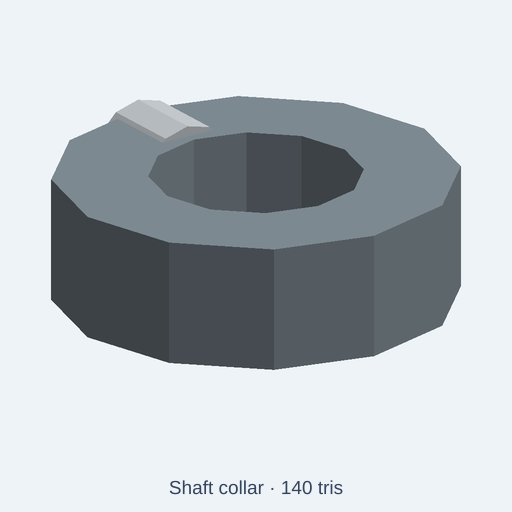
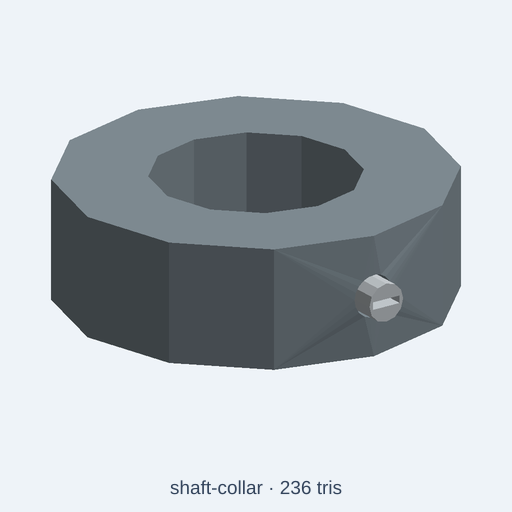
fix(catalog): drill shaft collar set-screw passage and model screw

Changed region(s): [[0.3125, 0.9375, 0.6875, 0.9688], [0.2188, 0.1875, 0.4062, 0.2812], [0.6875, 0.5312, 0.8125, 0.625]]

diff --git a/tests/integration/catalog/shaftCollarFidelity.test.ts b/tests/integration/catalog/shaftCollarFidelity.test.ts
@@ -1,0 +1,85 @@
+// SPDX-License-Identifier: MIT
+// The CC0 prop is not a rated collar, but its claimed set screw must have
+// a drilled radial passage. Validate exported geometry, not just labels.
+import { beforeAll, describe, expect, it } from 'vitest';
+import { readFileSync } from 'node:fs';
+import { resolve } from 'node:path';
+import { NodeIO } from '@gltf-transform/core';
+import { initOcct } from '../../../src/kernel/backends/occt/occtBackend';
+import { buildCatalogAssetWithGlb } from '../../../src/agent/catalog/buildCatalog';
+import { runAndExport } from '../../../src/agent/script-runtime/export';
+
+type V = [number, number, number];
+type Tri = [V,V,V];
+const root = resolve(import.meta.dirname, '../../..');
+const sourcePath='catalog/kits/standard-components/shaft-collar.kcad.ts';
+const source=readFileSync(resolve(root,sourcePath),'utf8');
+const sub=(a:V,b:V):V=>[a[0]-b[0],a[1]-b[1],a[2]-b[2]];
+const cross=(a:V,b:V):V=>[a[1]*b[2]-a[2]*b[1],a[2]*b[0]-a[0]*b[2],a[0]*b[1]-a[1]*b[0]];
+const dot=(a:V,b:V)=>a[0]*b[0]+a[1]*b[1]+a[2]*b[2];
+function rayHit(tris:Tri[],p:V,d:V):boolean {
+  return tris.some(([a,b,c])=>{
+    const e1=sub(b,a),e2=sub(c,a),h=cross(d,e2),det=dot(e1,h);
+    if(Math.abs(det)<1e-9)return false;
+    const f=1/det,s=sub(p,a),u=f*dot(s,h),q=cross(s,e1),v=f*dot(d,q),t=f*dot(e2,q);
+    return u>=-1e-7&&v>=-1e-7&&u+v<=1+1e-7&&t>1e-6&&t<100;
+  });
+}
+async function meshes(bytes:Uint8Array):Promise<Map<string,Tri[]>> {
+  const doc=await new NodeIO().readBinary(bytes),out=new Map<string,Tri[]>();
+  for(const node of doc.getRoot().listNodes()) {
+    const mesh=node.getMesh();if(!mesh)continue;
+    const m=node.getWorldMatrix(),tris:Tri[]=[];
+    for(const primitive of mesh.listPrimitives()) {
+      const pos=primitive.getAttribute('POSITION')!,idx=primitive.getIndices(),count=idx?idx.getCount():pos.getCount();
+      for(let i=0;i<count;i+=3)tris.push([0,1,2].map(j=>{
+        const v=pos.getElement(idx?idx.getScalar(i+j):i+j,[]);
+        return [0,1,2].map(k=>1000*(m[k]!*v[0]!+m[k+4]!*v[1]!+m[k+8]!*v[2]!+m[k+12]!)) as V;
+      }) as Tri);
+    }
+    out.set(node.getName(),tris);
+  }
+  return out;
+}
+function assertPassage(parts:Map<string,Tri[]>,scale:number):void {
+  expect([...parts.keys()].sort()).toEqual(['collar-ring','radial-set-screw']);
+  const ring=parts.get('collar-ring')!,screw=parts.get('radial-set-screw')!;
+  expect(ring.length).toBeGreaterThan(0);expect(screw.length).toBeGreaterThan(0);
+  const center:[number,number,number]=[0,6*scale,0];
+  // Source -Y becomes one of the two GLB horizontal depth directions. The
+  // ring must be open on exactly one side, while the other side stays solid.
+  const dirs:V[]=[[0,0,1],[0,0,-1]];
+  expect(dirs.filter(d=>!rayHit(ring,center,d))).toHaveLength(1);
+  const opening=dirs.find(d=>!rayHit(ring,center,d))!;
+  expect(rayHit(screw,center,opening),'set screw occupies the radial bore').toBe(true);
+  expect(rayHit(ring,[5*scale,6*scale,0],opening),'surrounding wall survives drilling').toBe(true);
+  expect(rayHit(ring,center,[1,0,0]),'annular wall survives outside the radial bore').toBe(true);
+}
+async function variant(code:string):Promise<Map<string,Tri[]>>{
+  const e=await runAndExport({code,fileName:'shaft-collar.kcad.ts',scriptDir:resolve(root,'catalog/kits/standard-components'),format:'glb',options:{format:'glb',style:'lowpoly',lowpoly:{maxTriangles:300}}});
+  expect(e.diagnostics.filter(d=>d.severity==='error')).toEqual([]);return meshes(e.bytes);
+}
+beforeAll(async()=>{await initOcct();},30000);
+describe('shaft collar radial set screw fidelity',()=>{
+  it('exports a drilled, open shaft collar and separate contacting screw',async()=>{
+    const {asset,glb}=await buildCatalogAssetWithGlb(root,sourcePath);
+    expect(asset.description).toMatch(/not manufacturing CAD/i);
+    expect(asset.stats.triangles).toBeLessThanOrEqual(asset.triangleBudget);
+    expect(asset.stats.sizeM.map(n=>Math.round(n*1000)).sort((a,b)=>a-b)).toEqual([12,38,40]);
+    assertPassage(await meshes(glb),1);
+  },30000);
+  it('fails the original solid-wall negative control',async()=>{
+    const broken=source.replace('.subtract(radialBore)','');
+    expect(broken).not.toBe(source);
+    const ring=(await variant(broken)).get('collar-ring')!;
+    const center:V=[0,6,0];
+    expect(rayHit(ring,center,[0,0,1])).toBe(true);
+    expect(rayHit(ring,center,[0,0,-1])).toBe(true);
+  },30000);
+  it('keeps the passage, screw and intact walls for both scaled props',async()=>{
+    for(const [name,scale] of [['compact',.75],['large',1.25]] as const) {
+      const code=source.replace("param('size', 'standard'",`param('size', '${name}'`);
+      assertPassage(await variant(code),scale);
+    }
+  },60000);
+});

diff --git a/catalog/kits/standard-components/shaft-collar.kcad.ts b/catalog/kits/standard-components/shaft-collar.kcad.ts
@@ -1,9 +1,9 @@
-// Distinctive geometry: One-piece round shaft collar with a centered bore and a small radial set-screw boss
+// Illustrative set-screw shaft collar: axial shaft bore, radial access bore, and separate slotted grub screw.
 meta({
   name: 'shaft-collar',
   license: 'CC0-1.0',
   title: 'Shaft collar',
-  description: 'One-piece round shaft collar with a centered bore and a small radial set-screw boss Knobs: model size, steel, zinc-plated steel.',
+  description: 'Illustrative CC0 low-poly set-screw shaft collar with an open axial shaft bore, radial access passage and separate simplified slotted grub screw contacting the shaft opening. Three uniform scene scales and display colors only. No screw threads, tolerances, holding torque or vendor fit data; not manufacturing CAD.',
   tags: ['shaft collar', 'set collar', 'shaft hardware', 'rotating shaft'],
   kit: 'standard-components',
   category: 'attachment',
@@ -23,6 +23,15 @@ presets({
 
 const s = size.value === 'compact' ? 0.75 : size.value === 'large' ? 1.25 : 1;
 const a = assembly('shaft-collar');
-a.part('ring',cylinder(12*s,19*s,16).subtract(cylinder(14*s,10*s,16).translate(0,0,-s)).color(steel));
-a.part('boss',cylinder(8*s,5*s,10).rotateX(90).translate(0,19*s,8*s).color(zinc));
+// The radial screw axis enters through the -Y wall and reaches the axial Ø20 bore.
+// This is an actual passage, not a colored boss embedded in a solid collar.
+const axialBore = cylinder(14*s,10*s,16).translate(0,0,-s);
+const radialBore = cylinder(13*s,2.1*s,12).rotateX(-90).translate(0,-21*s,6*s);
+const ring = cylinder(12*s,19*s,16).subtract(axialBore).subtract(radialBore);
+a.part('collar-ring', ring.color(steel));
+// Distinct body: headless set screw with an exposed screwdriver slot. It reaches
+// the Ø20 bore wall at y=-10 mm; helix/thread and torque are intentionally omitted.
+const slot = box(3*s,2.7*s,0.75*s).translate(-1.5*s,-22*s,5.625*s);
+const screw = cylinder(11*s,1.9*s,12).rotateX(-90).translate(0,-21*s,6*s).subtract(slot);
+a.part('radial-set-screw', screw.color(zinc));
 return a.model();
